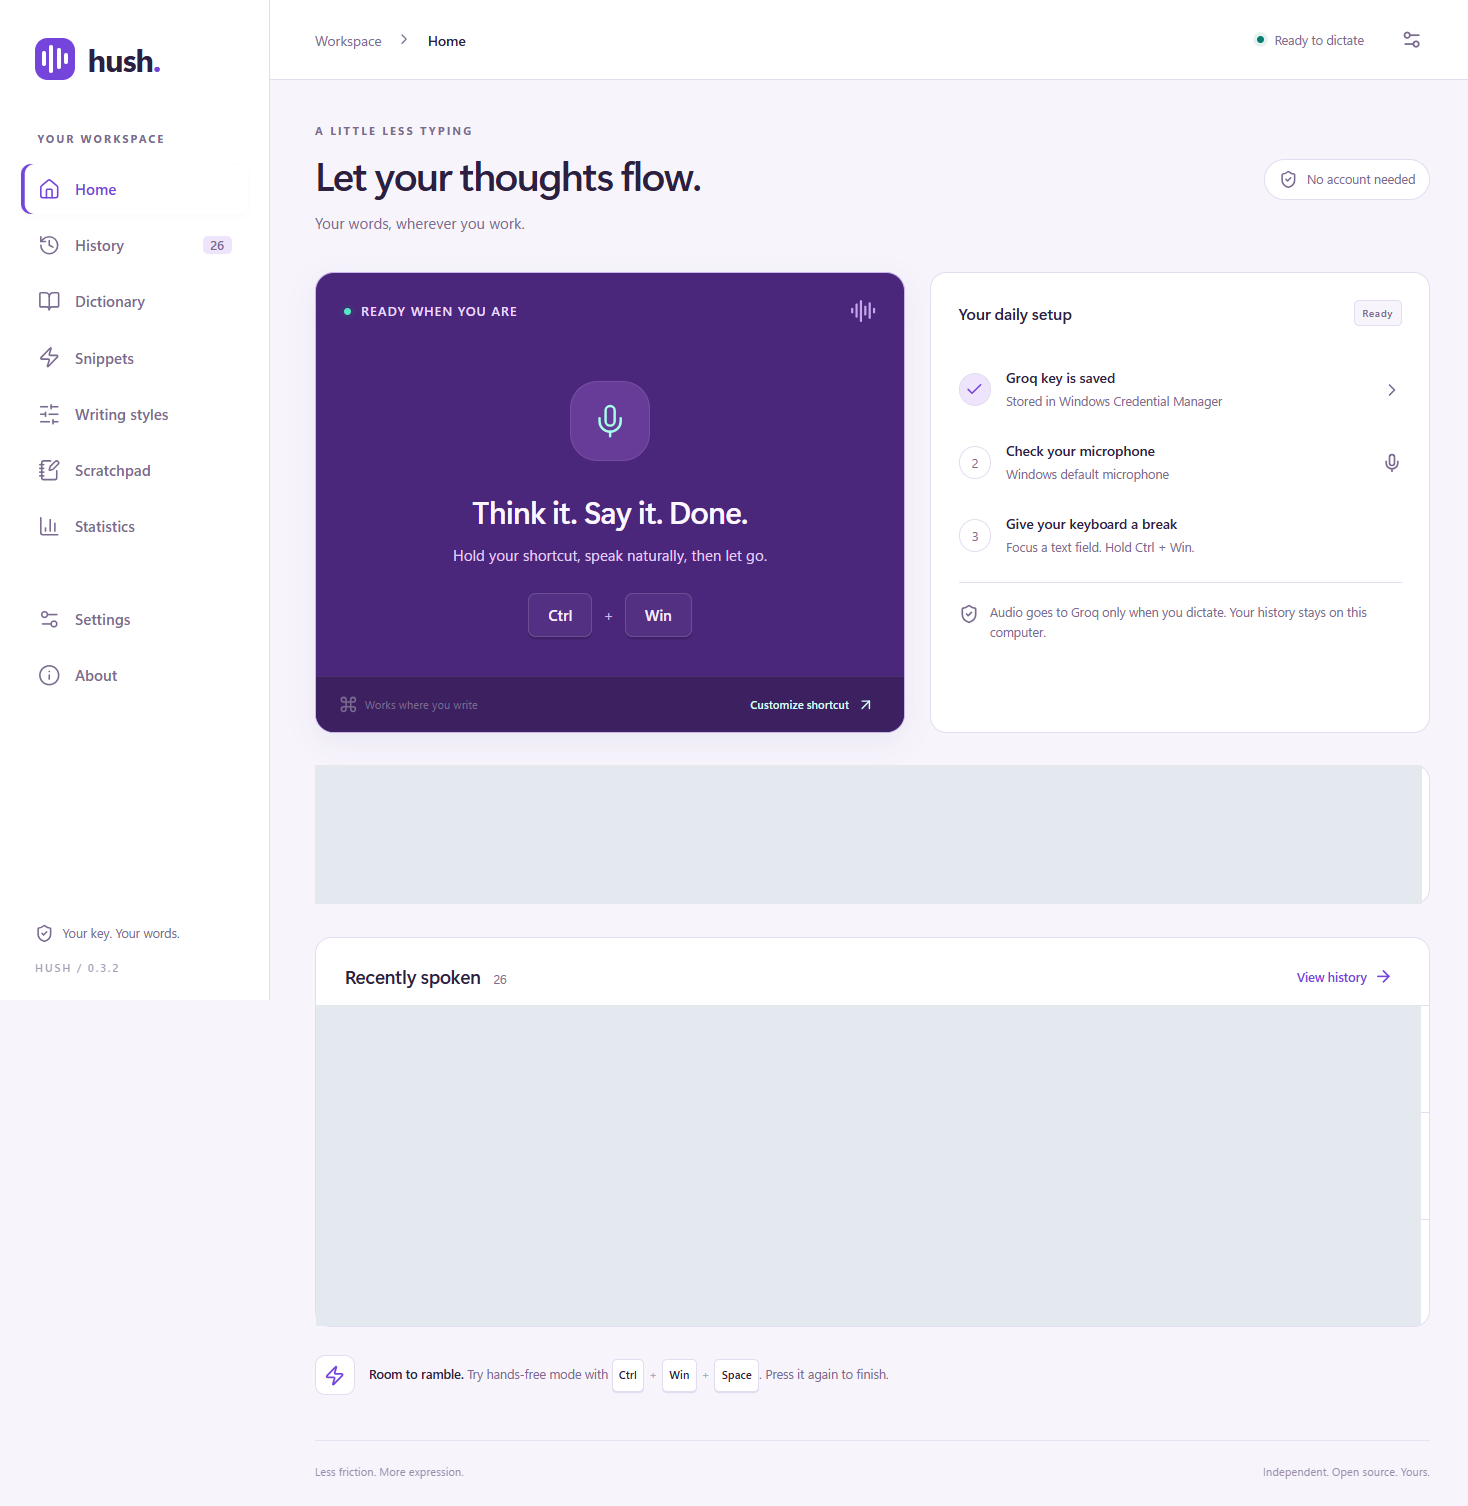
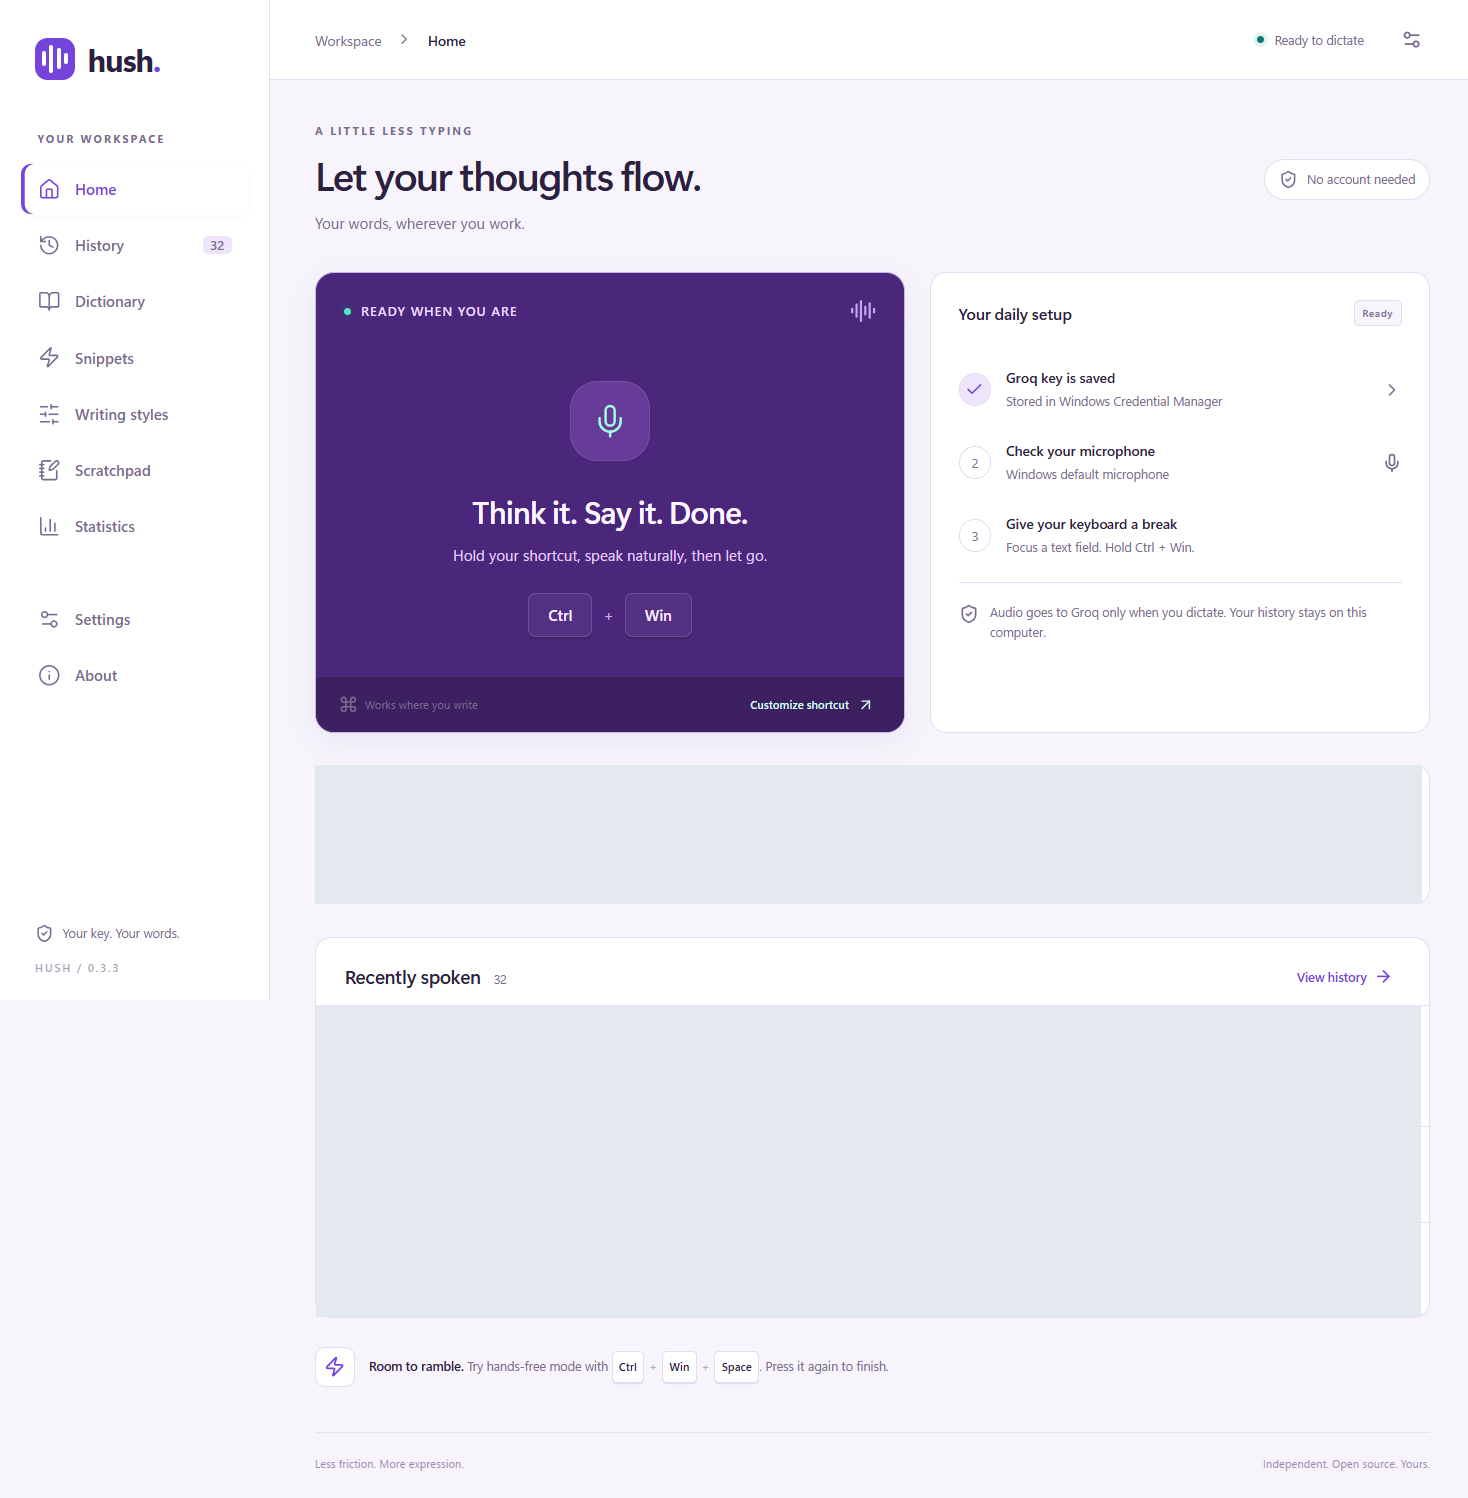
Record Windows package and recovery verification [skip ci]

diff --git a/README.md b/README.md
@@ -5,7 +5,7 @@
 
 Hush is an independent, open-source Windows dictation application built with Rust, Tauri 2, and SolidJS. Hold a shortcut, say what you mean, and insert the result in the field where you were working. Choose Groq cloud recognition with your own API key, or download a local Whisper pack for offline dictation. Local automatic layout adds notes, bullets, and paragraphs without another AI call.
 
-**Release status: pre-release, with live acceptance pending.** The native pipeline and desktop interface are implemented, but live speech → Groq → insertion has not been verified in this environment. Do not treat this as a production-complete Wispr Flow replacement. The previous 0.3.2 build averaged 18.93 MiB working set and 4.08 MiB private memory in one documented 20-sample background run with stopped microphone preparation enabled; an open dashboard or active local model adds resource use. Silent installation, native settings/key preservation, microphone stopping/cancellation, and dashboard close/reopen passed. A public Groq speech fixture also passed. The exact feature and test status is recorded in [FEATURES](docs/FEATURES.md), [QA](docs/QA.md), and [performance report](docs/PERFORMANCE.md). A public release is blocked until core acceptance checks pass.
+**Release status: pre-release, with live acceptance pending.** The native pipeline and desktop interface are implemented, but live speech → Groq → insertion has not been verified in this environment. Do not treat this as a production-complete Wispr Flow replacement. The 0.3.3 build averaged 19.21 MiB working set and 4.17 MiB private memory in one documented 20-sample background run with stopped microphone preparation enabled; an open dashboard or active local model adds resource use. Silent installation, native settings/key preservation, microphone stopping/cancellation, and dashboard close/reopen passed. A public Groq speech fixture passed in an earlier build. The exact feature and test status is recorded in [FEATURES](docs/FEATURES.md), [QA](docs/QA.md), and [performance report](docs/PERFORMANCE.md). A public release is blocked until core acceptance checks pass.
 
 Hush was formerly named Hushline. The existing repository URL, application identifier, database name, credential slot, startup entry and executable name are retained for compatibility; saved keys and preferences stay in place.
 
@@ -38,7 +38,7 @@ Source is available at [chahatesh/Hush](https://github.com/chahatesh/Hushline). 
 - `src-tauri/target/release/bundle/nsis/Hush_0.3.3_x64-setup.exe` — per-user installer with shortcuts and uninstaller.
 - `artifacts/Hush_0.3.3_x64_portable.zip` — executable plus license/readme. This uses the same Windows app-data settings; it is portable as a binary, not a fully isolated profile.
 
-The installer is unsigned unless a maintainer signs it with their own certificate. It requires no administrator permissions for ordinary per-user use. WebView2 installation may be required. Ordinary updates retain app-data settings. Local history and the Groq key may remain after uninstall so an update/reinstall does not unexpectedly erase them; remove the key and clear history in the app before uninstalling if you want them deleted. Remove the remaining app-data directory yourself for complete removal. Startup is opt-in under Settings; no service is installed.
+The installer is unsigned unless a maintainer signs it with their own certificate. It requires no administrator permissions for ordinary per-user use. WebView2 installation may be required. Ordinary updates retain app-data settings. Local history and the Groq key may remain after uninstall so an update/reinstall does not unexpectedly erase them; remove the key, clear history, and delete saved audio in the app before uninstalling if you want them deleted. Remove the remaining app-data directory yourself for complete removal. Startup is opt-in under Settings; no service is installed.
 
 ### Requirements
 

diff --git a/docs/QA.md b/docs/QA.md
@@ -190,3 +190,9 @@ Rust: **66 passed, 14 explicitly ignored** in the ordinary suite. TypeScript: **
 A delayed loopback HTTP fixture exercises the actual Groq speech client under a shortened deadline, then stores/decrypts/retries its synthetic WAV through a responsive fixture. Separate regressions verify parent cancellation, child cancellation, dropped late results, deadline upgrade/default/bounds, DPAPI restart recovery, corruption, combined three-clip retention, seven-day expiry, and memory-only private storage. These are component/integration fixtures, **not** a live Groq or microphone-to-Notepad acceptance test. New tests do not use or overwrite the saved Groq key, upload microphone audio, or write plaintext audio files.
 
 Speech timeout defaults to five seconds (3–120 configurable). The exact requested error appears above the bar, and Home exposes Retry/Delete after asynchronous recovery storage. Optional AI cleanup has a separate five-second fallback to local text; Command Mode editing fails safely after ten seconds. Retrying uses current provider preferences and produces text for review/copy without retaining an old target/selection. Full live microphone → slow response → saved audio → retry → manual-copy acceptance remains pending. The public release gate stays closed.
+
+The optimized executable and **2,829,576-byte** Windows installer built successfully. The packaged native/UI bridge passed deadline-setting persistence/restoration, dictionary persistence, existing-key preservation, microphone cancellation, normal Stop with silence rejection and **no ordinary-capture review warning**, backup exclusion and dashboard close/reopen. These checks uploaded/saved no microphone audio. The heading observation was 7,481 ms including test-only CDP setup. The installer passed owned per-user silent installation, launch, dependency notices, uninstall, profile retention and preservation of unrelated legacy Hush registration/shortcuts. The interactive wizard and live dictation were not tested. Portable ZIP generation passed.
+
+A fresh 20-sample background run measured 19.21 MiB working set, 4.17 MiB private memory and 0.023% CPU across all logical processors, after a five-second warmup, with no dashboard/model/private recovery clips resident. No controlled speedup or full live latency claim follows from this run. Reports: [packaged app](verification/desktop-smoke-0.3.3.json), [installer](verification/installer-test-0.3.3.json), [background](verification/performance-0.3.3.json), [components](verification/update-0.3.3.json). Core live timeout/retry/insertion and physical multi-monitor acceptance remain incomplete; no public Release/tag was created because required live acceptance is incomplete.
+
+Hosted Windows CI passed for implementation commit `392b3b9`, including formatting, Clippy, all Rust/TypeScript/browser tests, the real offline CPU speech fixture, installer packaging, portable ZIP and artifact upload: [run](https://github.com/chahatesh/Hushline/actions/runs/39525991593), [saved steps](verification/ci-0.3.3.json). The release verifier was run and correctly rejected incomplete manual acceptance.

diff --git a/docs/PERFORMANCE.md b/docs/PERFORMANCE.md
@@ -151,3 +151,9 @@ A debug synthetic native-window workload, after compact-state warmup, delivered 
 Microphone timing diagnostics and review thresholds address usability, not general recognition accuracy. A measured 81 ms startup gap no longer blocked three normal recordings; a warmed-stream 500 ms forced loss did require review. Lost speech cannot be reconstructed. No new inference request or resident model was added.
 
 After compilation and packaged checks, a fresh release background run used **18.93 MiB mean/peak working set**, **4.08 MiB private memory** and CPU rounded to **0.000%** across 12 logical processors. Twenty samples ran over 21.93 seconds after five seconds of warmup. There was one process, a resting native pill and stopped microphone preparation, with no dashboard/model resident. The result is close to 0.3.1 and does not establish a reduction in idle memory. Dashboard heading observation was **3,313 ms**, including test-only CDP setup. No new cloud/end-to-end timing was measured. [Raw background data](verification/performance-0.3.2.json).
+
+## Hush 0.3.3 bounded processing and recovery
+
+Same documented hardware, fresh release process after compiler/packaged checks finished: **19.21 MiB mean/peak working set**, **4.17 MiB private memory**, **0.023% CPU across 12 logical processors**. Five seconds of warmup preceded 20 samples over 23.05 seconds. One background process had a resting native bar and stopped microphone preparation, with no dashboard/model or saved private audio resident. This is a single observation, not a controlled speed or footprint improvement. Retained private audio consumes additional memory, bounded to three clips; active encoding and inference remain outside this measurement. [Raw run](verification/performance-0.3.3.json).
+
+The actual dashboard heading was observed after **7,481 ms**, including test-only CDP initialization and variable local system/cache load. This is not a pure cold-start measurement or evidence of faster startup. No new live Groq/end-to-end latency was measured. A five-second configurable speech deadline now bounds waiting before error/recovery, rather than making inference faster. Optional cleanup separately falls back to local text after five seconds; selected-text editing has a ten-second limit. No resident model, idle expiry poll or extra ordinary cloud request was added.
